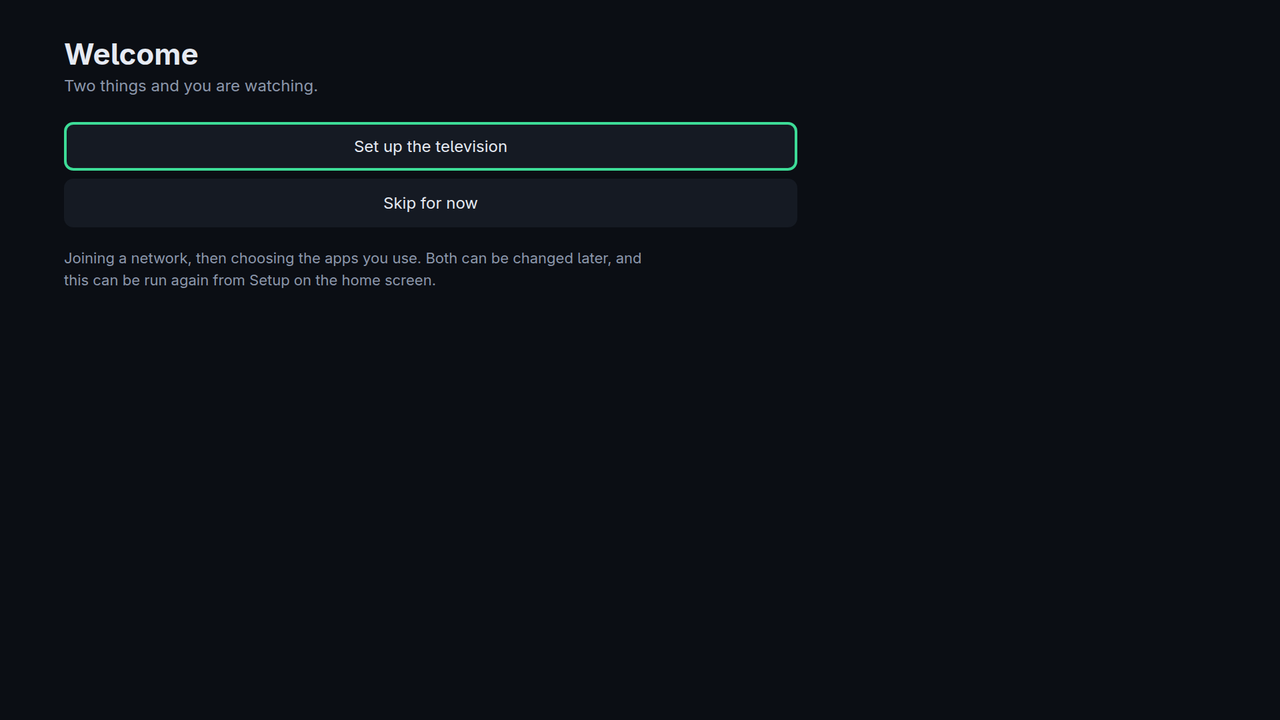
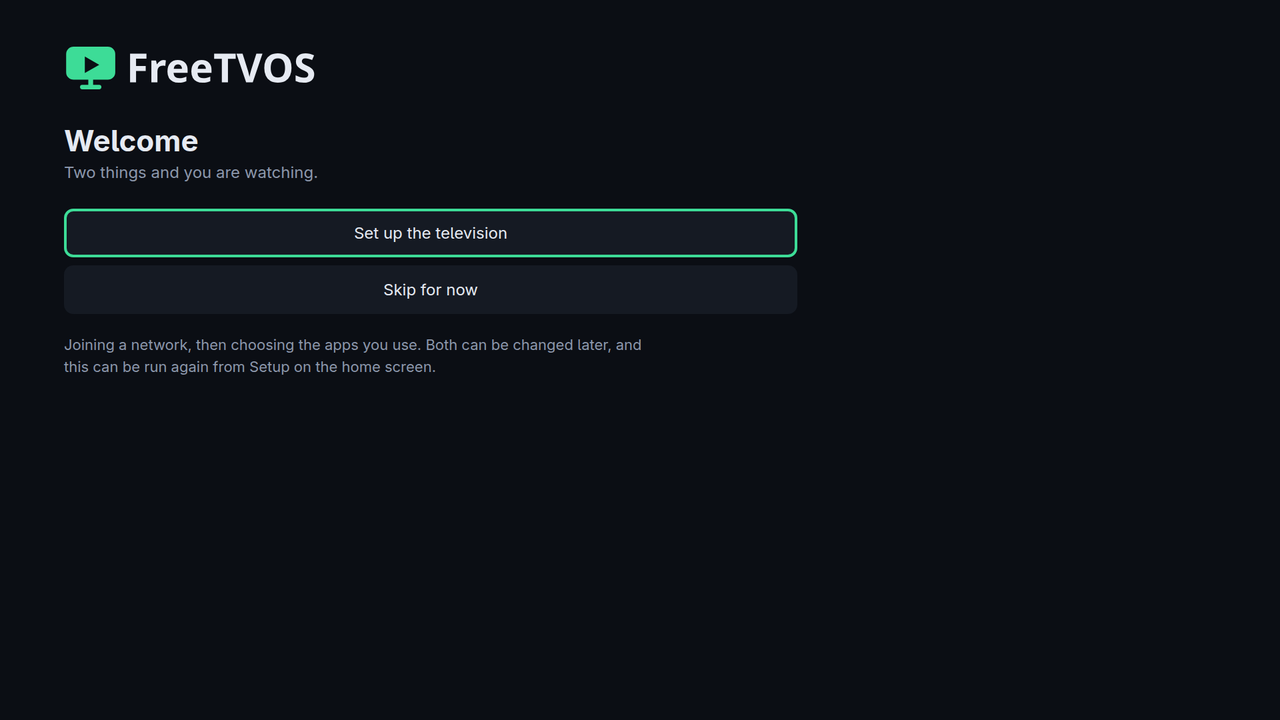
Put the wordmark on the setup wizard's first page
The first thing a new television shows now carries the product's name:
the wordmark sits above "Welcome", lined up with the heading.

Pages reach pictures only through tvui, and its /icon/ route looks in the
icon theme, which is no place for a wide wordmark. A /brand/ route now
serves an SVG or PNG by file name alone from /usr/share/freetvos/brand,
so a request cannot reach anywhere else. The image copies the wordmark
SVG there: its text is already outlined, so it stays sharp on a 4K panel
with no fonts. If the file is missing the image removes itself rather
than showing a broken picture.

tools/test-tvui.py checks the route refuses paths outside that directory
and anything that is not a picture, and that the page asks for the file
the Containerfile installs. docs/images/setup.png is retaken, and
ASSETS.md and the showcase page say the dark wordmark is now used.

Checked on the VM with the changed files overlaid on the running image;
the next image build is the first to ship them.

Changed region(s): [[0.0312, 0.0611, 0.625, 0.2444], [0.0312, 0.275, 0.625, 0.4278], [0.0312, 0.4583, 0.5, 0.5194]]

diff --git a/docs/asset-showcase.html b/docs/asset-showcase.html
@@ -346,10 +346,12 @@
   <section id="wordmarks" aria-labelledby="wordmarks-h">
     <div class="head">
       <h2 id="wordmarks-h">Wordmarks and light surfaces</h2>
-      <span class="chip idle">generated, not read yet</span>
+      <span class="chip used">dark wordmark in the setup wizard</span>
+      <span class="chip idle">light versions not read yet</span>
     </div>
     <p class="lede">The mark and name side by side, with the text outlined from Noto Sans Bold so no
-      picture depends on installed fonts, plus a one-colour mark for light backgrounds.</p>
+      picture depends on installed fonts, plus a one-colour mark for light backgrounds. The dark
+      wordmark heads the setup wizard's first page.</p>
     <div class="plates">
       <figure class="plate dark">
[1 lines of base64/hex data omitted]

diff --git a/tools/asset-showcase.html b/tools/asset-showcase.html
@@ -312,10 +312,12 @@
   <section id="wordmarks" aria-labelledby="wordmarks-h">
     <div class="head">
       <h2 id="wordmarks-h">Wordmarks and light surfaces</h2>
-      <span class="chip idle">generated, not read yet</span>
+      <span class="chip used">dark wordmark in the setup wizard</span>
+      <span class="chip idle">light versions not read yet</span>
     </div>
     <p class="lede">The mark and name side by side, with the text outlined from Noto Sans Bold so no
-      picture depends on installed fonts, plus a one-colour mark for light backgrounds.</p>
+      picture depends on installed fonts, plus a one-colour mark for light backgrounds. The dark
+      wordmark heads the setup wizard's first page.</p>
     <div class="plates">
       <figure class="plate dark">
         <div class="pad"><img src="{{WORDMARK}}" width="1200" height="293" alt="Wordmark for dark surfaces" style="width: 88%"></div>

diff --git a/tools/test-tvui.py b/tools/test-tvui.py
@@ -1,0 +1,73 @@
+#!/usr/bin/env python3
+"""Check the pictures the television's own pages serve from disk.
+
+The pages are served over http to a browser that may not read files itself, so
+tvui hands pictures out by name. Worth pinning down: that a name only ever
+reaches the directory meant for it, and that the setup wizard asks for a
+wordmark the image actually ships.
+
+Run with: python3 tools/test-tvui.py
+"""
+import os
+import re
+import sys
+import tempfile
+from pathlib import Path
+
+sys.dont_write_bytecode = True
+
+REPO = Path(__file__).resolve().parent.parent
+UI = REPO / "image/overlay/usr/share/freetvos"
+
+failures = []
+
+
+def check(label, got, want):
+    if got == want:
+        print(f"  ok   {label}")
+    else:
+        print(f"  FAIL {label}\n         got  {got!r}\n         want {want!r}")
+        failures.append(label)
+
+
+def main() -> int:
+    with tempfile.TemporaryDirectory() as tmp:
+        root = Path(tmp)
+        brand = root / "brand"
+        brand.mkdir()
+        (brand / "freetvos-wordmark.svg").write_text("<svg/>")
+        (brand / "notes.txt").write_text("not a picture")
+        (root / "secret.svg").write_text("<svg/>")
+        os.environ["FREETVOS_BRAND_DIR"] = str(brand)
+        sys.path.insert(0, str(UI))
+        import tvui
+        import setupui
+
+        print("brand pictures")
+        found, ctype = tvui.find_brand("/brand/freetvos-wordmark.svg")
+        check("the wordmark, as an SVG", (found == brand / "freetvos-wordmark.svg", ctype),
+              (True, "image/svg+xml"))
+        check("nothing beside the brand directory", tvui.find_brand("/brand/../secret.svg"),
+              (None, None))
+        check("nothing that is not a picture", tvui.find_brand("/brand/notes.txt"), (None, None))
+        check("nothing that is not there", tvui.find_brand("/brand/missing.svg"), (None, None))
+
+        print("the setup wizard")
+        asked = re.search(r'src="/brand/([^"]+)"', setupui.WELCOME_BODY)
+        check("the first page asks for the wordmark", asked and asked.group(1),
+              "freetvos-wordmark.svg")
+        containerfile = (REPO / "image/Containerfile").read_text()
+        check("the image puts it where it is served from",
+              "COPY brand/logo/freetvos-wordmark.svg "
+              "/usr/share/freetvos/brand/freetvos-wordmark.svg" in containerfile, True)
+        check("and the file exists", (REPO / "brand/logo/freetvos-wordmark.svg").is_file(), True)
+
+    if failures:
+        print(f"\n{len(failures)} failed")
+        return 1
+    print("\nall checks passed")
+    return 0
+
+
+if __name__ == "__main__":
+    sys.exit(main())

diff --git a/image/overlay/usr/share/freetvos/tvui.py b/image/overlay/usr/share/freetvos/tvui.py
@@ -38,6 +38,11 @@ ICON_DIRS = [
 ]
 ICON_SIZES = ["scalable", "512x512", "256x256", "128x128", "64x64"]
 
+# Brand artwork that is not an icon, such as the wide wordmark, which has no
+# place in a theme of square icons. Served by file name alone, from here only.
+BRAND_DIR = Path(os.environ.get("FREETVOS_BRAND_DIR", "/usr/share/freetvos/brand"))
+BRAND_TYPES = {".svg": "image/svg+xml", ".png": "image/png"}
+
 # One stylesheet for every surface. The 5% inset is television title-safe: the
 # outer edge of a panel is not reliably visible, and overscan on older sets eats
 # more than that.
@@ -341,6 +346,17 @@ def find_icon(name: str):
     return None, None
 
 
+def find_brand(name: str):
+    """A picture from the brand directory. Only the last part of the path is
+    used, so a request cannot climb out of it."""
+    name = Path(name).name
+    ctype = BRAND_TYPES.get(Path(name).suffix)
+    f = BRAND_DIR / name
+    if ctype and f.is_file():
+        return f, ctype
+    return None, None
+
+
 class App:
     """A set of routes, served to one fullscreen browser window."""
 
@@ -388,6 +404,13 @@ class App:
                     # Served from here rather than linked as file://, which a
                     # page loaded over http is not allowed to reach.
                     f, ctype = find_icon(Path(path).name)
+                    if f:
+                        self._send(200, f.read_bytes(), ctype)
+                    else:
+                        self._send(404)
+                    return
+                if path.startswith("/brand/"):
+                    f, ctype = find_brand(path)
                     if f:
                         self._send(200, f.read_bytes(), ctype)
                     else:

diff --git a/image/overlay/usr/share/freetvos/setupui.py b/image/overlay/usr/share/freetvos/setupui.py
@@ -13,6 +13,8 @@ import json
 import tvui
 
 WELCOME_BODY = """
+<img class="wordmark" src="/brand/freetvos-wordmark.svg" alt="FreeTVOS"
+     onerror="this.remove()">
 <h1>Welcome</h1>
 <p class="step">Two things and you are watching.</p>
 <div class="rows" id="rows">
@@ -22,7 +24,11 @@ WELCOME_BODY = """
 <p class="note">Joining a network, then choosing the apps you use. Both can be
 changed later, and this can be run again from Setup on the home screen.</p>
 <style>.note{font-size:22px;color:var(--dim);max-width:880px;line-height:1.5;
-             margin-top:30px}</style>
+             margin-top:30px}
+       /* The first thing a new television shows, so the product's name is on
+          it. The negative margin takes back the artwork's own left margin, so
+          the mark lines up with the heading beneath it. */
+       .wordmark{display:block;height:96px;width:auto;margin:0 0 34px -8px}</style>
 <script>
 __NAV__
 const cells = [...document.querySelectorAll('.row')];

diff --git a/docs/ASSETS.md b/docs/ASSETS.md
@@ -152,7 +152,8 @@ they are made from, not them.
 | Tiles, 512 and 256 | `brand/png/hicolor/<size>/apps/freetvos-*.png` | The same, beside each tile's SVG |
 | Splash logo, 640 | `brand/png/splash/logo.png` | Plymouth, and the Plasma session splash |
 | Wallpaper, 4K and 1080p | `brand/png/wallpaper/` | The home screen |
-| Wordmark, dark and light | `brand/png/logo/freetvos-wordmark*.png` | Nothing in the image yet |
+| Wordmark, dark | `brand/logo/freetvos-wordmark.svg`, installed to `/usr/share/freetvos/brand` | The setup wizard's first page |
+| Wordmark, light | `brand/png/logo/freetvos-wordmark-light.png` | Nothing in the image yet |
 | Mark on light | `brand/png/logo/freetvos-mark-light.png` | Nothing in the image yet |
 | Spinner, 24 frames at 128 | `brand/png/splash/throbber-*.png` | Nothing: the theme shows a still mark on purpose |
 | Splash background, 1080p | `brand/png/splash/background.png` | Nothing: the theme paints the colour itself |
